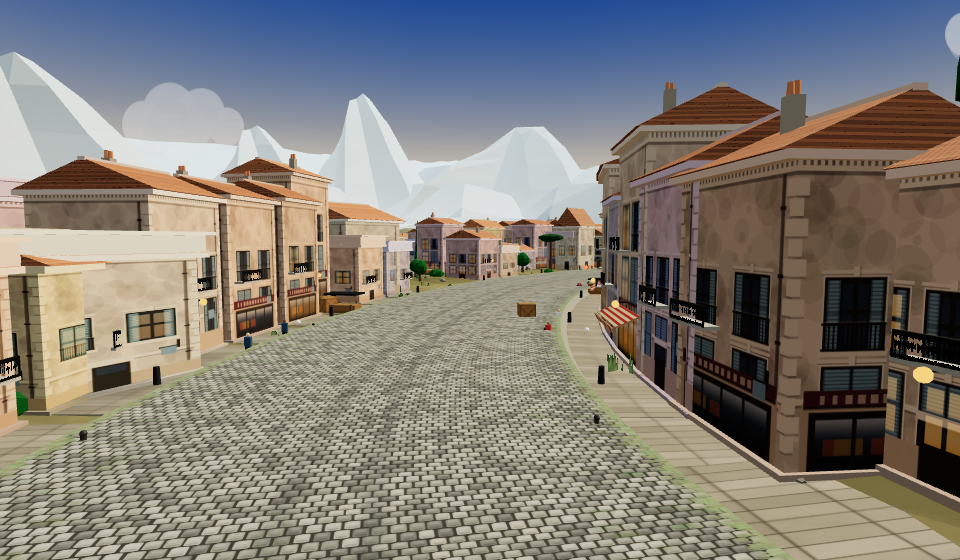
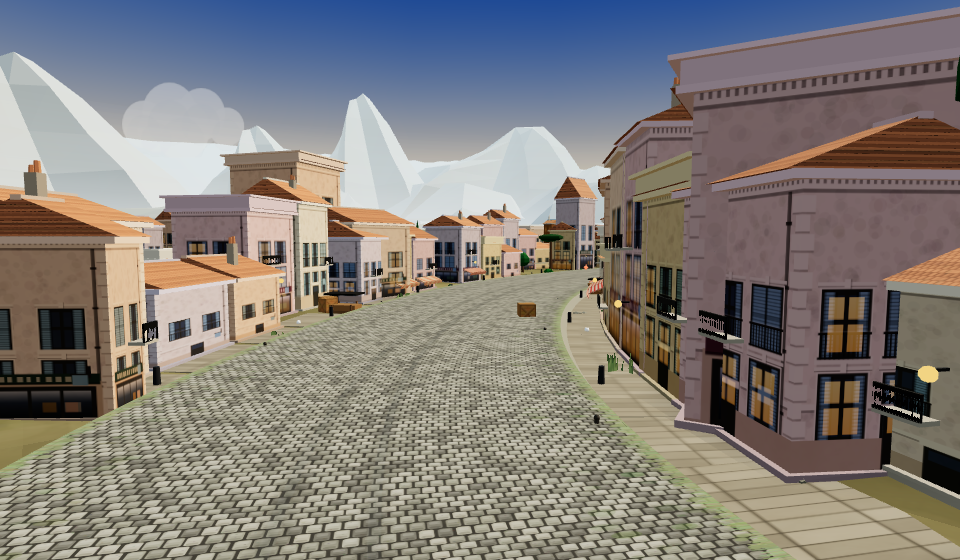
Buildings: grain instead of stains, and a narrower carrugio
The limewash erosion in townhouseTexture laid 160 discs of up to 22 px
radius into a 192-wide authored wall — a ninth of the wall across, at
1.7x total coverage. Not grain: soft circular damp stains, on every
town render. 620 discs at a quarter the radius and half the alpha.

That one change moved the facades most of the way to the reference.
Measured through a flat-white mask of the frontage, at a pinned point
on the lap, against the reference's P50 124 / P90 188 / saturation
0.33: Il Budello 0.64 -> 0.41 saturation, P50 78 -> 124, P90 132 ->
196; Cote d'Azur P10 12 -> 37. The mottle was not cosmetic — a wash of
dark grey-brown was dragging the whole palette down and desaturating
it, which is why the tints never looked like the tints.

Cinque Terre's own palette lifted on top of that (saturation 0.66 ->
0.59, P50 59 -> 81); it stays the warm district, it stops being a
different exposure.

And the side alley between terrace runs is bracketed now rather than a
missing house: one bay, a narrow block either side of a ~2 u slot.
Every open gap narrower, none of them dramatically.

Two things that looked right and were not are in HANDOVER.md: the
hemisphere fill cannot lift a shade floor, because light multiplies
albedo; and the gap probe was measuring depth for width and the back
ranks for the street.

Gates: boot 4/4 clean, test-buildings passes.

Claude-Session: https://claude.ai/code/session_01URrqS2kzo9eCa3Prp4kpvs

diff --git a/src/track.js b/src/track.js
@@ -4361,7 +4361,15 @@ for (const [key, over] of [
     // get the same joinery as the coast: architrave, louvred shutter, iron.
     // Their ROOFS stay gable-fronted — a Cinque Terre house stands in a stack
     // up a cliff, not shoulder to shoulder along a street.
-    frontage: { tints: ['#e98d5a', '#e8b45c', '#d9686a', '#e4c37a', '#c9705a', '#efd9a6'], roof: 0xb4552e, face: { render: '#f2e8d4', plinth: '#a98a68', trim: '#f6ecd8', frame: '#34332c', shutter: '#3f6b46', pane: '#39465a', surround: true, jalousie: { shut: 0.38 }, iron: '#26221e', quoins: true, pipe: true } },
+    // THE DARK END OF THIS LIST WAS DRAGGING THE WHOLE STREET DOWN. Measured
+    // against the reference (facade P50 124, P90 188, saturation 0.33),
+    // CINQUE TERRE came out at 66 / 103 / 0.69 — its lit walls half as bright
+    // as the reference's and twice as saturated, the darkest town on the
+    // roster by a distance. Three mid-saturated entries lifted toward the
+    // sheet's own pastels and two pale ones added, so a run is punctuated
+    // rather than uniformly deep. The district stays warmer than ALASSIO,
+    // which is the point of it; it stops being a different exposure.
+    frontage: { tints: ['#eda877', '#e8b45c', '#e0959a', '#e4c37a', '#d4948a', '#efd9a6', '#f4e6cc', '#f2ddb0'], roof: 0xb4552e, face: { render: '#f6ecdc', plinth: '#a98a68', trim: '#f6ecd8', frame: '#34332c', shutter: '#3f6b46', pane: '#39465a', surround: true, jalousie: { shut: 0.38 }, iron: '#26221e', quoins: true, pipe: true } },
     seaColor: 0x2f7fa8, sunColor: 0xffe8c0, sunIntensity: 2.7,
     skyTop: '#2f7fd1', skyHorizon: '#e8ddc6',
     terrainLow: '#7d8a4e', terrainHigh: '#a89a68',
@@ -18142,7 +18150,31 @@ export class Track {
         const i = (s * step) % N;
         // the start gate, the grid and the grandstand own this stretch
         if (this._circDist(i, 0) < 40) { run = 0; continue; }
-        if (gap > 0) { gap--; run = 0; continue; }
+        // A CARRUGIO IS A SLOT, NOT A MISSING HOUSE. The side alley between
+        // terrace runs skipped one or two whole bays, which at a 7 u unit is
+        // a hole up to twice a house wide with the verge showing through it —
+        // measured at 53-71% of neighbouring pairs across the town worlds,
+        // mean gap 14 u. That is a suburb, not a Ligurian street. The alley
+        // stays, because a streetwall with no way through it is a wall; it is
+        // BRACKETED instead, by a narrow block either side of a ~2 u slot,
+        // which is what the reference's side streets actually are.
+        if (gap > 0) {
+          if (gap === 1) {
+            const nw = F.unit * 0.34;
+            const off = Math.max(2, Math.round(step * 0.30));
+            for (const d of [-off, off]) {
+              const j = ((i + d) % N + N) % N;
+              const ah = F.height * runH * (0.88 + Math.random() * 0.1);
+              const ap = put(j, side, F.lateral + runJ, nw, F.depth * 0.92, ah,
+                1.7 + Math.random() * 0.8, tints[(Math.random() * tints.length) | 0]);
+              if (!ap) continue;
+              placedS[side].add(j);
+              faceAt(j, side, ap.lat, F.depth * 0.92, nw, ap.y, ap.h, ANCH[ap.variant]);
+              paveAt(j, side, ap.lat, F.depth * 0.92, nw);
+            }
+          }
+          gap--; run = 0; continue;
+        }
         // step the terrace back rather than break it, where the road swings in
         let placed = null;
         const tall = run > 0 && Math.random() < 0.11;    // the merchant house
@@ -18182,7 +18214,7 @@ export class Track {
           bulbs.setMatrixAt(lk++, m4);
         }
         if (++run >= want) {                       // side alley, then a new block
-          gap = 1 + ((Math.random() * 2) | 0);
+          gap = 1;                                 // ONE bay, and bracketed
           want = F.run[0] + ((Math.random() * (F.run[1] - F.run[0] + 1)) | 0);
           runH = 0.84 + Math.random() * 0.44;      // the next block, its own build
           runJ = (Math.random() - 0.5) * 1.6;

diff --git a/src/textures.js b/src/textures.js
@@ -2314,10 +2314,16 @@ export function townhouseTexture(palette = {}, variant = 0, set = null) {
     const w = TH_W, h = TH_H;
     g.fillStyle = P.render;
     g.fillRect(0, 0, w, h);
-    // patchy limewash erosion, so a terrace of identical units is not identical
-    for (let i = 0; i < 160; i++) {
-      const s = 4 + Math.random() * 18;
-      g.fillStyle = `rgba(${60 + Math.random() * 60 | 0},${56 + Math.random() * 50 | 0},${50 + Math.random() * 44 | 0},${0.03 + Math.random() * 0.07})`;
+    // Patchy limewash erosion. GRAIN, NOT BLOTCHES: this was 160 discs of up
+    // to 22 px radius at up to 10% alpha, painted in a 192-wide authored
+    // space — so the biggest were an ninth of the wall across and read in
+    // every town shot as soft circular damp stains, most visible on the
+    // pale renders. The variety between houses is carried by the four bay
+    // variants and the per-house tint; this only has to break the flat.
+    // Four times as many, a quarter the size, half the alpha.
+    for (let i = 0; i < 620; i++) {
+      const s = 1.6 + Math.random() * 5.4;
+      g.fillStyle = `rgba(${60 + Math.random() * 60 | 0},${56 + Math.random() * 50 | 0},${50 + Math.random() * 44 | 0},${0.015 + Math.random() * 0.035})`;
       g.beginPath();
       g.arc(Math.random() * w, Math.random() * h, s, 0, Math.PI * 2);
       g.fill();

diff --git a/HANDOVER.md b/HANDOVER.md
@@ -2699,3 +2699,62 @@ Worth writing down, because each looked right:
 CHECK THE PROBE'S ROOT BEFORE BELIEVING A BASELINE. An A/B against a pristine
 build is worth nothing if both ports serve the same tree, and it fails silently
 — the page loads, the game runs, the numbers look plausible.
+
+## r258 — THE BLOTCHES WERE THE WHOLE PROBLEM
+The building round. Three changes, two of them small, and the small one that
+turned out to be doing all the damage.
+
+### 620 SPECKS INSTEAD OF 160 STAINS
+`townhouseTexture`'s limewash erosion laid 160 discs of up to 22 px radius at
+up to 10% alpha into a 192-px-wide authored wall. The biggest were a ninth of
+the wall across, and at 1.7x total coverage they were not grain — they were
+soft circular damp stains, visible on every town render, worst on the pale
+renders. 620 discs at a quarter the radius and half the alpha.
+
+That change alone moved the facades most of the way to the reference. Measured
+through a flat-white mask of the frontage itself, at a pinned point on the lap
+(reference: P50 124, P90 188, saturation 0.33):
+
+    IL BUDELLO    sat 0.64 → 0.41   P50  78 → 124   P90 132 → 196
+    COTE D AZUR   sat 0.29 → 0.24   P50  96 → 102   P10  12 →  37
+    CINQUE TERRE  sat 0.69 → 0.66   P50  66 →  59   P90 103 → 122
+
+IL BUDELLO now sits on the reference almost exactly. THE MOTTLE WAS NOT
+COSMETIC: a wash of dark grey-brown at 1.7x coverage was dragging the whole
+palette down and desaturating it, which is why the streets read heavy and why
+the tints never looked like the tints.
+
+### CINQUE TERRE'S PALETTE
+Still the outlier after that — its lit walls half the reference's brightness
+and twice its saturation. Three mid-saturated entries in `liguria`'s tint list
+lifted toward the sheet's own pastels, two pale ones added, render nudged from
+`#f2e8d4` to `#f6ecdc`: saturation 0.66 → 0.59 and P50 59 → 81. It stays warmer
+than ALASSIO, which is the district's whole point; it stops being a different
+exposure.
+
+### A CARRUGIO IS A SLOT, NOT A MISSING HOUSE
+The side alley between terrace runs skipped one or two whole bays, which at a
+7 u unit is a hole up to twice a house wide. It is bracketed now — a narrow
+block either side of a ~2 u slot — and capped at one bay. Modest: open pairs
+27.2 → 27.2 / 17.4 → 18.9 / 38.2 → 33.2 percent, but every open gap narrower
+(mean 12.2 → 10.4, 7.3 → 6.9, 10.3 → 9.2 u) and CINQUE TERRE's P75 gap 4.6 →
+2.5. Shipped because it is an improvement on every gap measure, not because it
+is a big one.
+
+### TWO THINGS THAT LOOKED RIGHT AND WERE NOT
+**"Lift the shade floor with the hemisphere fill."** The facades bottom out at
+luminance 9-15 against the reference's 68, and hemisphere light is the obvious
+lever. Swept 1x to 3x: P10 moved 10 → 17 while P50 went 71 → 108 and the frame
+mean 96 → 126. It washes the world out and never touches the floor, because
+LIGHT MULTIPLIES ALBEDO — you cannot brighten a near-black texel by pointing
+more light at it. Paler hemisphere ground colours did the same. The floor moved
+in the end from the mottle change (COTE D AZUR P10 12 → 37), which lifted the
+albedo instead.
+
+**"53-71% of the streetwall has an open gap."** That was `frontagegaps.mjs`
+before it was right, twice over: it took `max(sx, sz)` of the instance matrix
+as the along-street width, and column 2 is the 8.5 u DEPTH, so abutting houses
+read as gaps; and it scored the whole `oldtown-frontage` mesh, which carries
+the five deliberately-sparse ranks BEHIND the terrace as well as the street. On
+the frontage rank alone, with column 0 as the width, the real figures are
+17-38% and the terrace mostly abuts. MEASURE THE POPULATION YOU MEAN.

diff --git a/tools-scratch/README.md b/tools-scratch/README.md
@@ -106,6 +106,21 @@ real time to get right and the next session should not rebuild them.
                 the surface, and no env map is bound at all.
 - `nightroad.mjs` the road material and every light that reaches it on a dark
                 world, plus how much of the frame clips.
+- `frontagegaps.mjs` is the streetwall continuous? Projects every frontage
+                block onto the centreline and measures the along-street gap
+                between neighbours on the same side. Two traps it was written
+                wrong into first: the along-street width is COLUMN 0 of the
+                instance matrix (column 2 is the 8.5 u depth, and taking the
+                max of the two makes an abutting terrace read as gaps), and
+                `oldtown-frontage` carries the sparse back ranks as well as
+                the street, so the frontage rank has to be filtered out by
+                lateral first. Wrong both ways it reported 53-71% open; right,
+                17-38%.
+- `shadefloor.mjs` sweeps the hemisphere fill against the facade's P10/P50/P90
+                and reports the cost — road and whole-frame means — beside the
+                gain. Its lesson is a negative one: 1x to 3x moves the shade
+                floor 10 → 17 and the frame mean 96 → 126. Light multiplies
+                albedo; it cannot brighten a near-black texel.
 - `facadeshot.mjs` the buildings framed WHERE THEY STAND. The old-town
                 frontage does not line the whole lap — this reads every
                 `oldtown-frontage` instance's position, finds the densest ~6%
